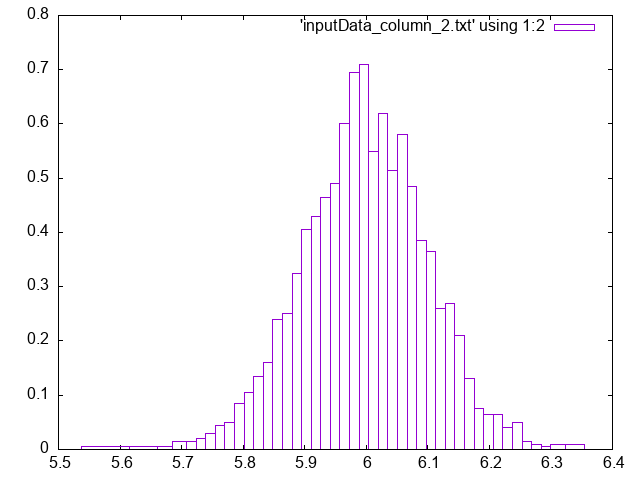
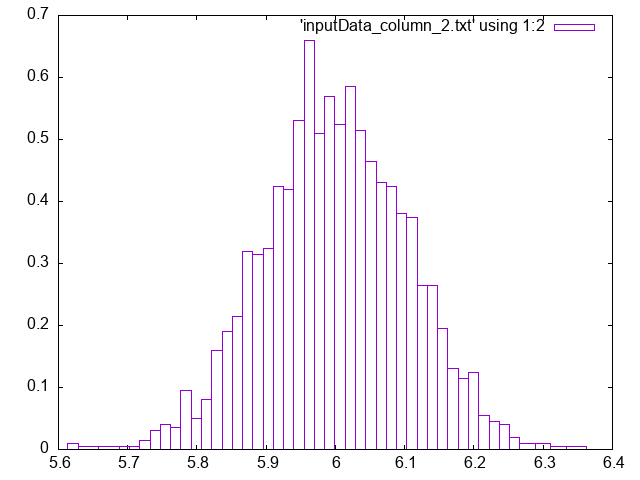
converge buy doesn't work properly

diff --git a/mcmc2.cpp b/mcmc2.cpp
@@ -269,7 +269,7 @@ void plotHistogram(const std::string &filename) {
 int main() {
   int dim = 3;              // Количество параметров
   int sampleSize = 200;     // Количество выборок
-  int num_steps = 100;      // Количество шагов интегрирования
+  int num_steps = 1000;      // Количество шагов интегрирования
   double epsilon = 0.0001;  // Шаг по времени
   double noiseStddev = 0.1; // Стандартное отклонение шума
   double lowBound = -5.0;   // Нижняя граница параметров
